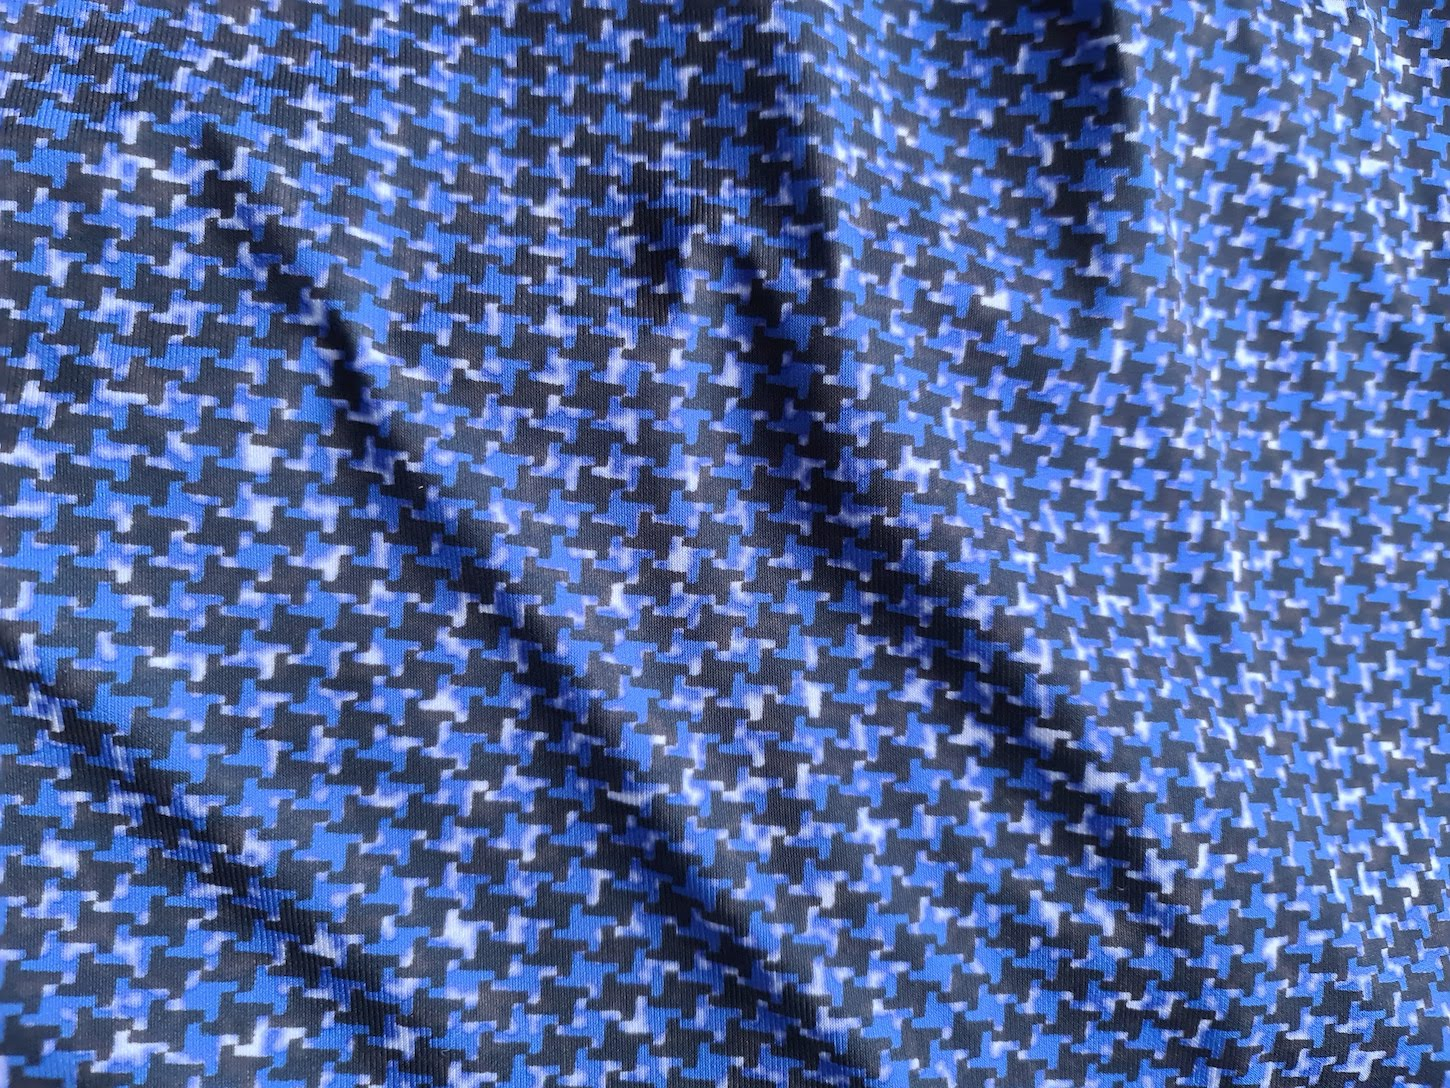
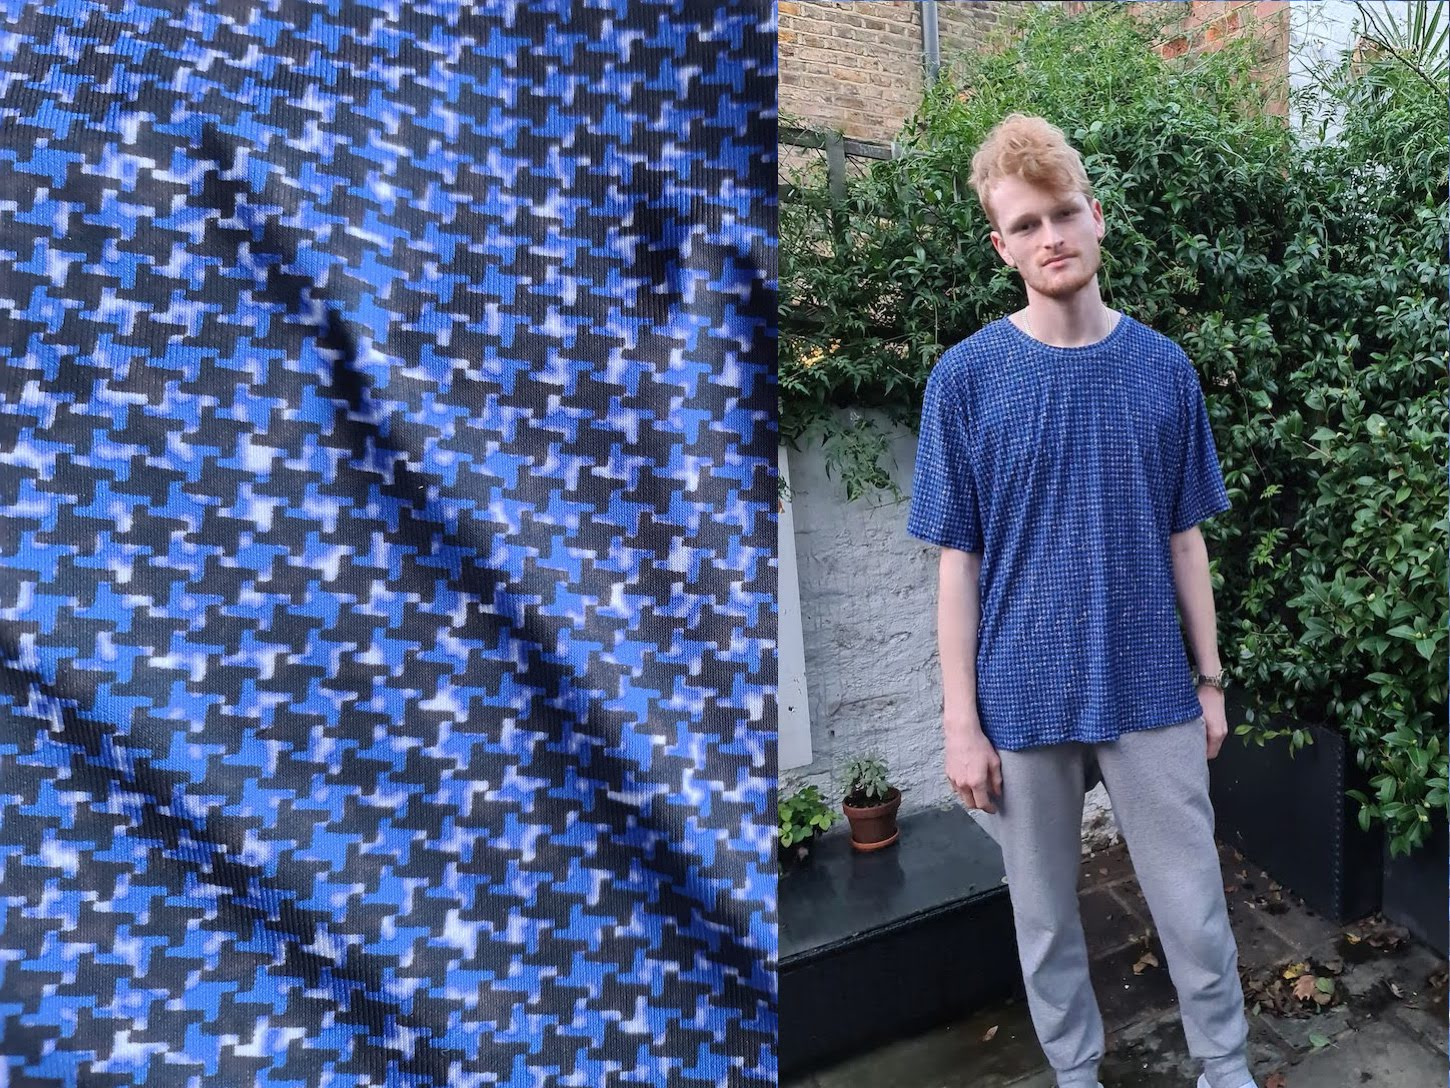
fix image order

diff --git a/src/views/components/DesignsSection.vue b/src/views/components/DesignsSection.vue
@@ -40,39 +40,39 @@
 </style>
 <script>
 const sources = {
-  carousel1_acid_synth: require('@/assets/img/designs/acid-synth-carousel-1450x1088-model.jpg'),
-  carousel2_amoeba: require('@/assets/img/designs/amoeba-carousel-1450x1088-model.jpg'),
-  carousel3_rose_fireworks: require('@/assets/img/designs/rose-fireworks-carousel-1450x1088-model.jpg'),
-  carousel4_djibou: require('@/assets/img/designs/djibou-carousel-1450x1088-model-flip.jpg'),
-  carousel5_connection: require('@/assets/img/designs/connection-carousel-1450x1088.jpg'),
+  carousel_acid_synth: require('@/assets/img/designs/acid-synth-carousel-1450x1088-model.jpg'),
+  carousel_amoeba: require('@/assets/img/designs/amoeba-carousel-1450x1088-model.jpg'),
+  carousel_rose_fireworks: require('@/assets/img/designs/rose-fireworks-carousel-1450x1088-model.jpg'),
+  carousel_djibou: require('@/assets/img/designs/djibou-carousel-1450x1088-model-flip.jpg'),
+  carousel_connection: require('@/assets/img/designs/connection-carousel-1450x1088-model.jpg'),
 }
 export default {
   data () {
     return {
       carouselData: [
         {
-          name: 'Connection - Men\'s Tee',
-          source: sources.carousel5_connection,
-          alt: 'Connection - Men\'s T-Shirt'
-        },
-        {
           name: 'Djibou - Men\'s Tee',
-          source: sources.carousel4_djibou,
+          source: sources.carousel_djibou,
           alt: 'Djibou - Men\'s T-Shirt'
         },
         {
           name: 'Rosé Fireworks - Men\'s Tee',
-          source: sources.carousel3_rose_fireworks,
+          source: sources.carousel_rose_fireworks,
           alt: 'Rosé Fireworks - Men\'s T-Shirt'
         },
         {
+          name: 'Connection - Men\'s Tee',
+          source: sources.carousel_connection,
+          alt: 'Connection - Men\'s T-Shirt'
+        },
+        {
           name: 'Amoeba - Men\'s Tee',
-          source: sources.carousel2_amoeba,
+          source: sources.carousel_amoeba,
           alt: 'Amoeba - Men\'s T-Shirt'
         },
         {
           name: 'Acid Synth - Men\'s Tee',
-          source: sources.carousel1_acid_synth,
+          source: sources.carousel_acid_synth,
           alt: 'Acid Synth - Men\'s T-Shirt'
         }
       ]
